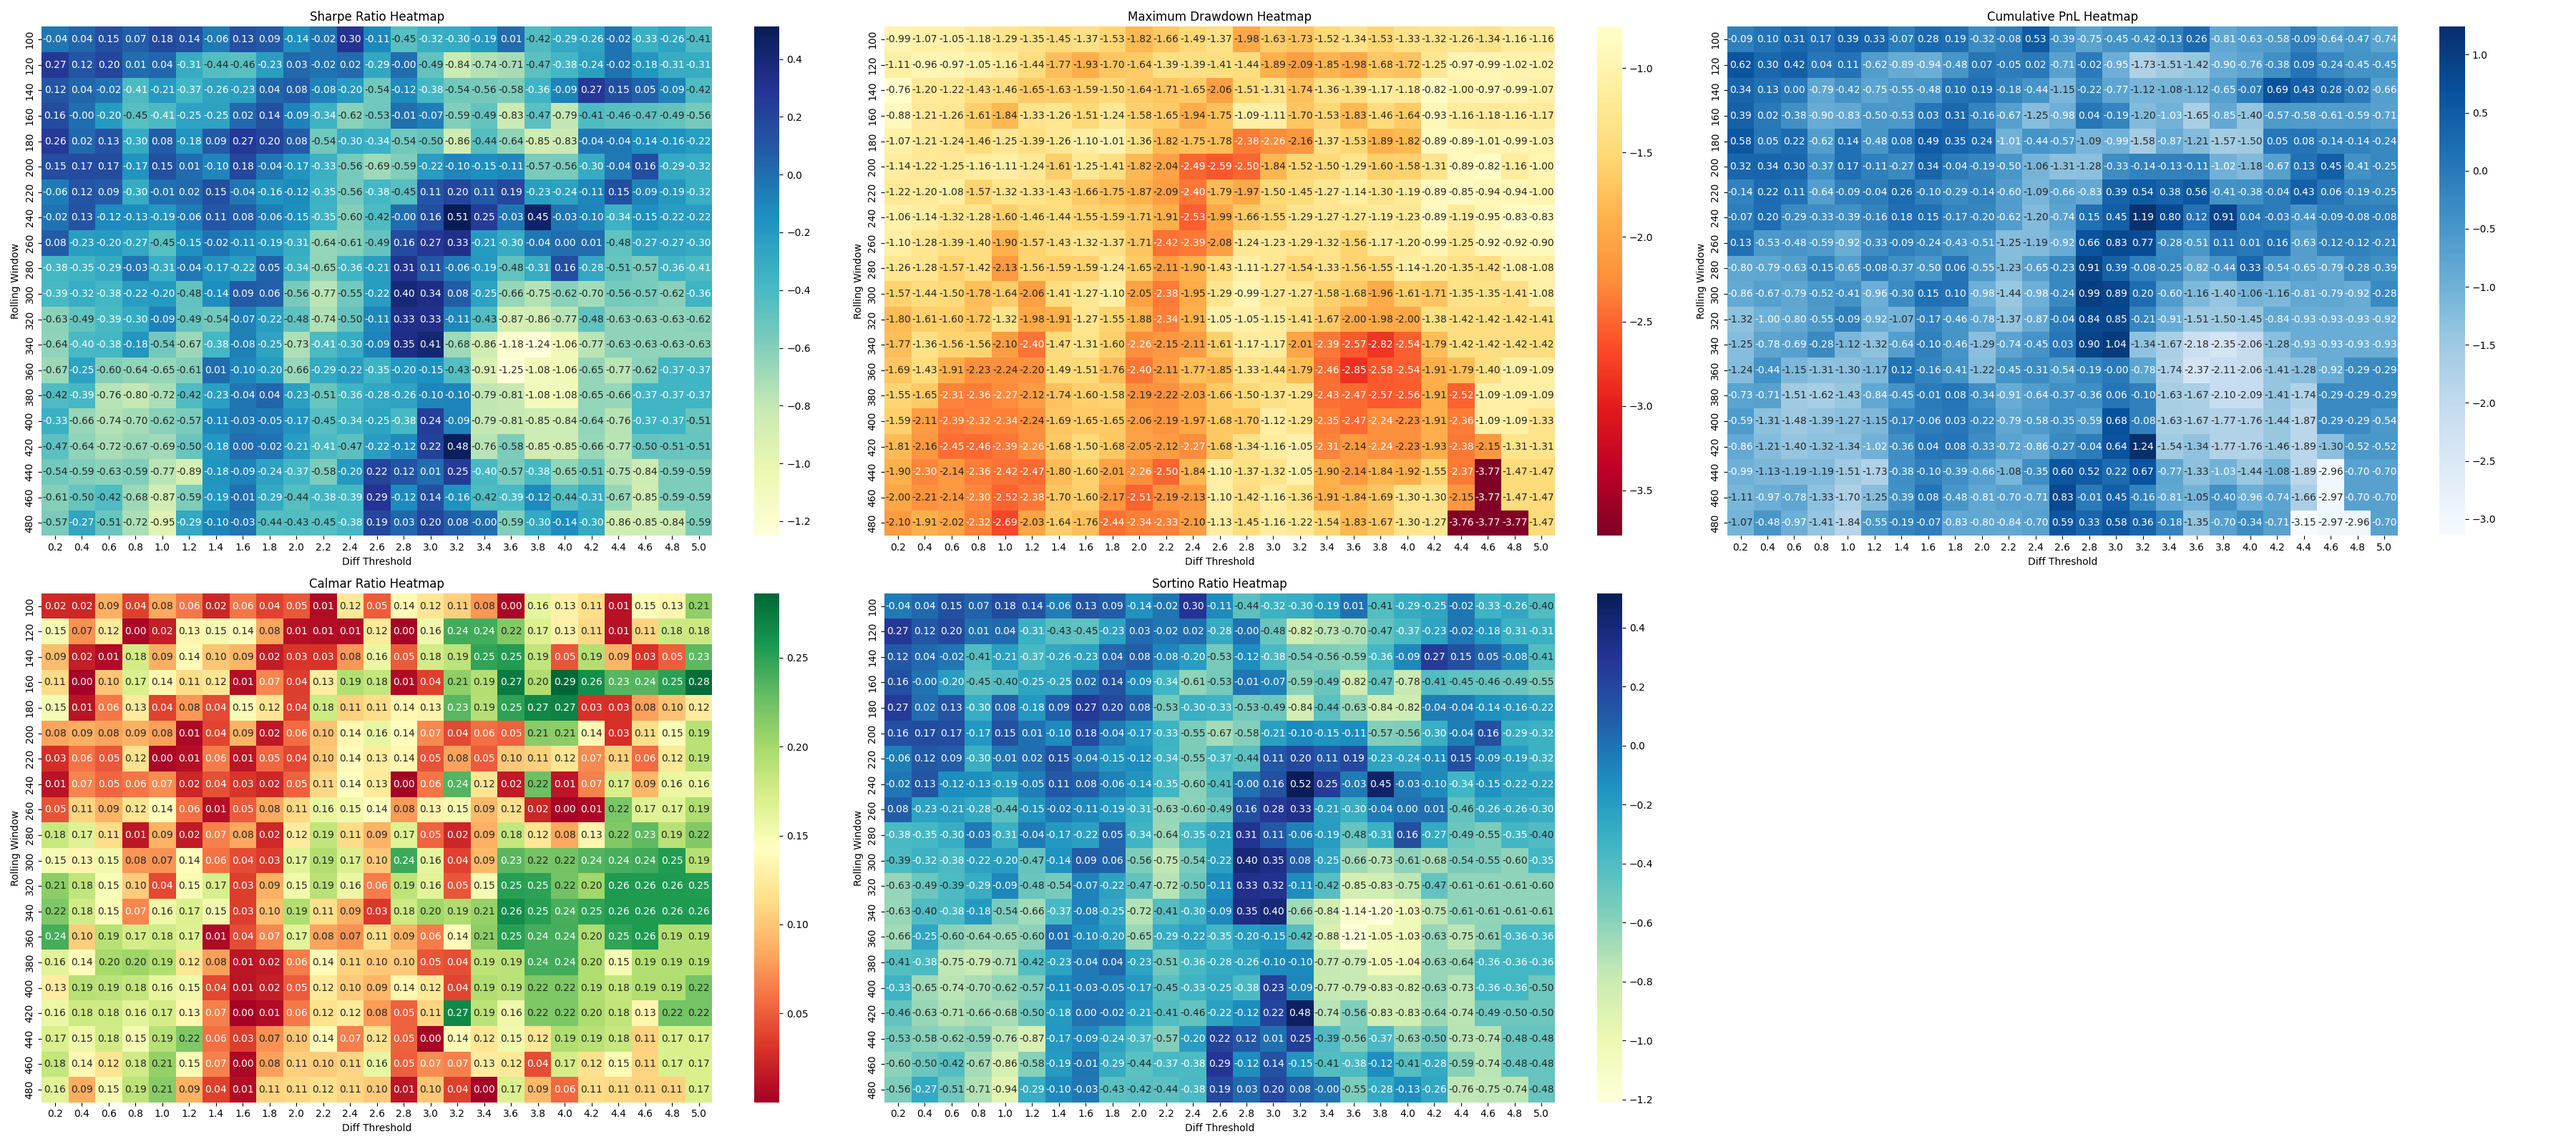
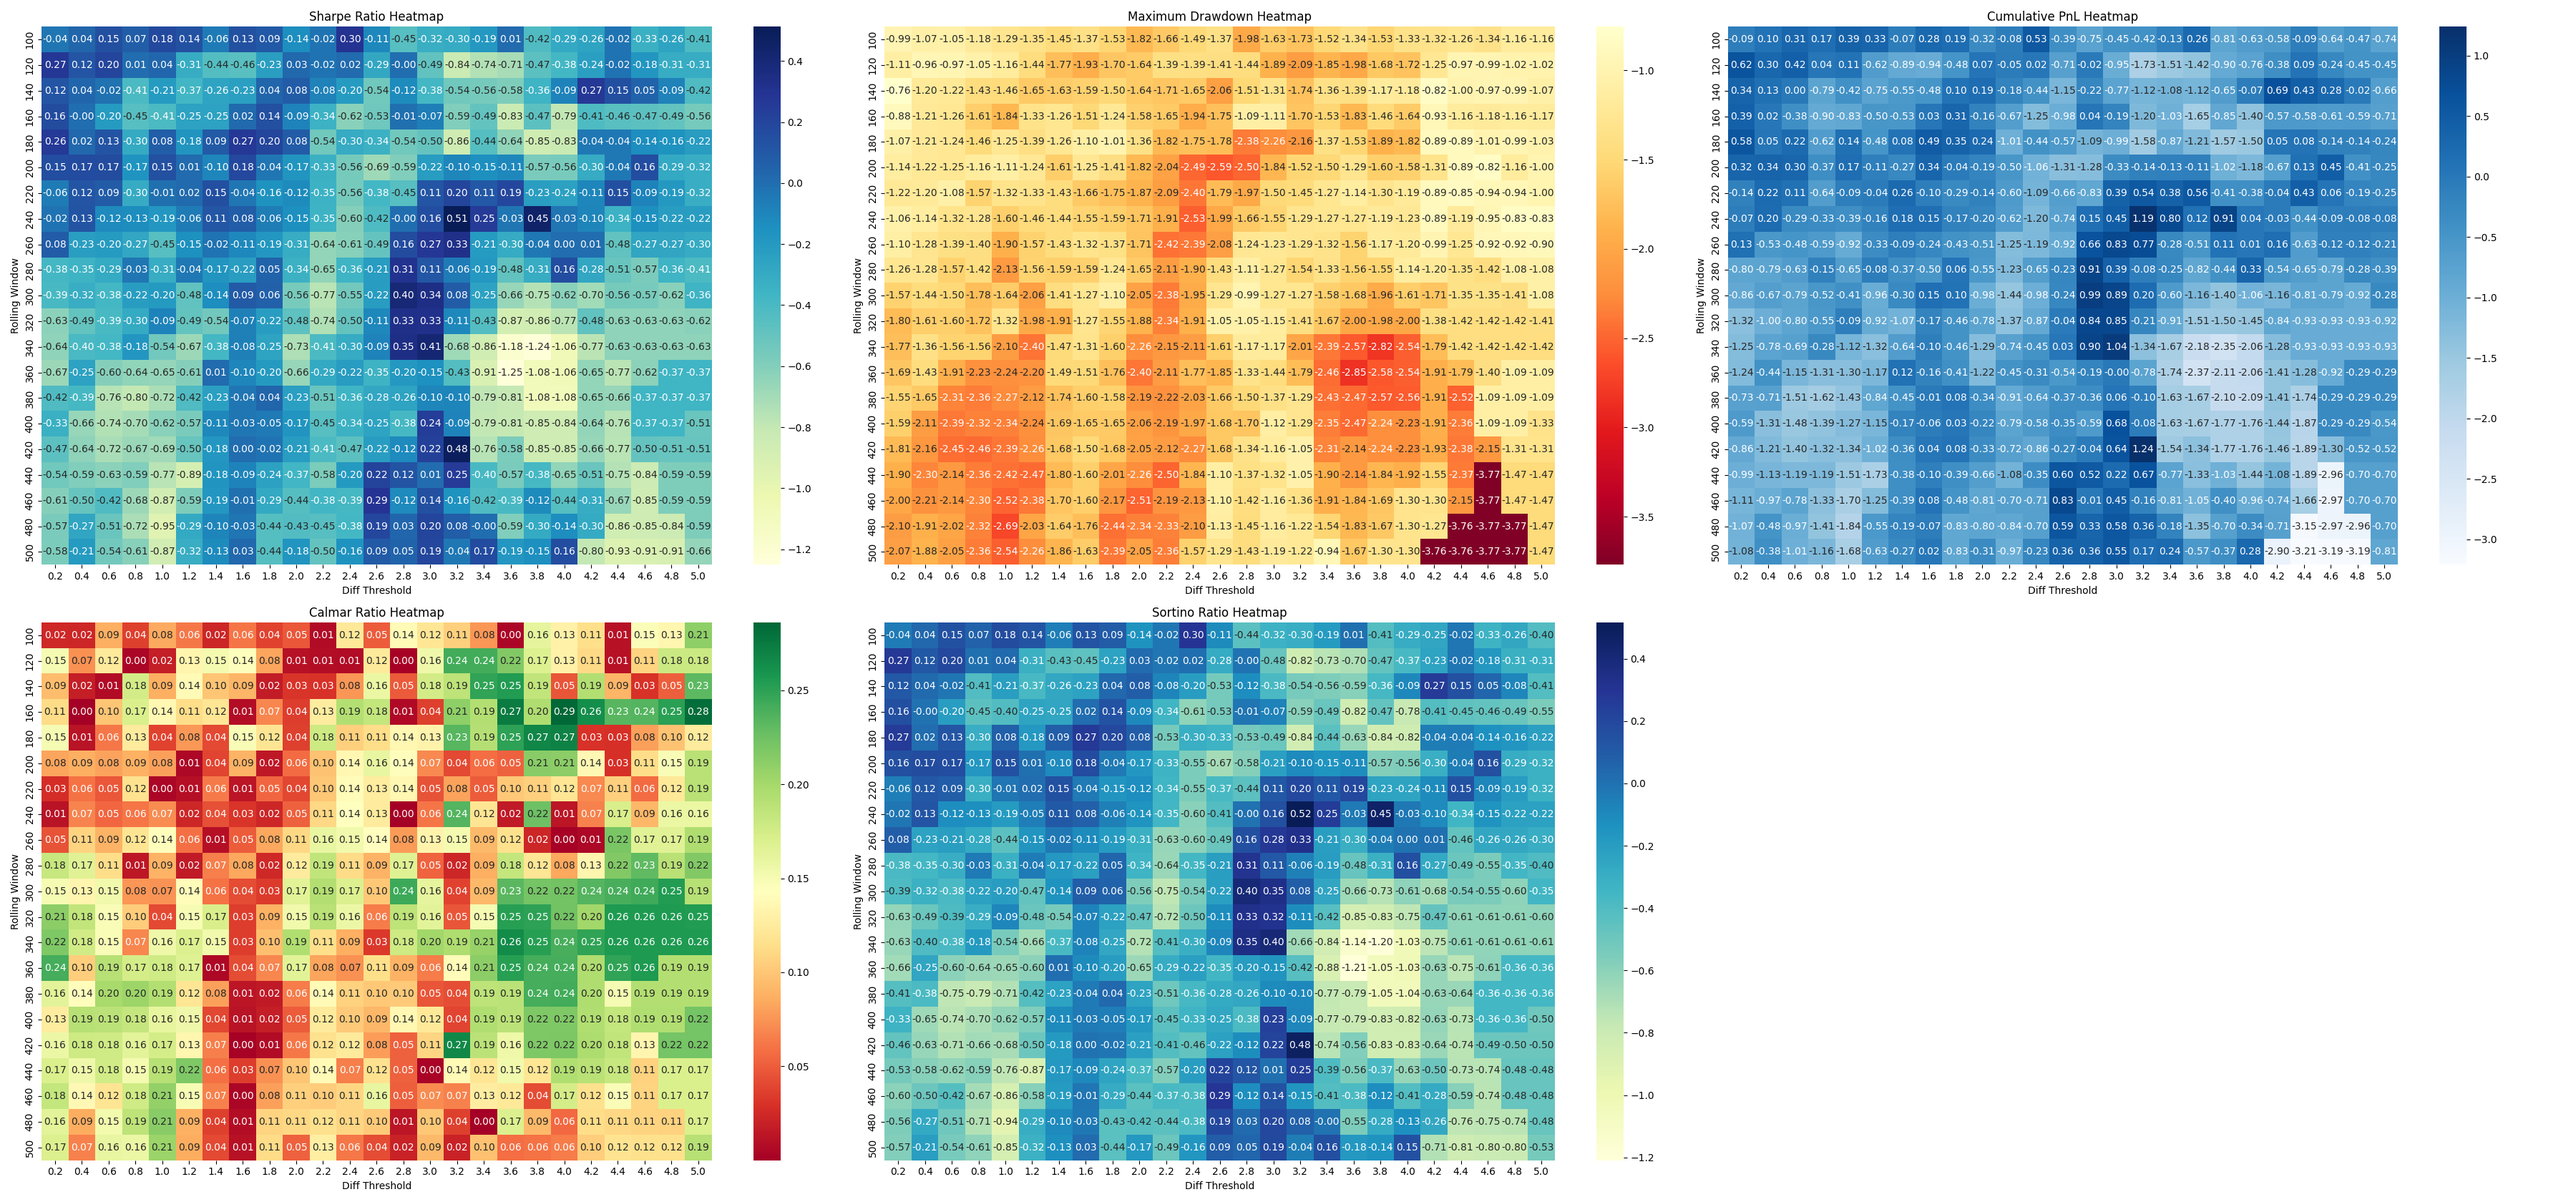
Save local changes

Changed region(s): [[0.0, 0.0, 0.28, 1.0], [0.3111, 0.0, 0.6222, 1.0], [0.6533, 0.0, 0.9333, 0.5]]

diff --git a/main.py b/main.py
@@ -32,7 +32,7 @@ if __name__ == "__main__":
     time_frames = ["1h"]
     models = [ThresholdModelEnum.ZSCORE]
     trading_strategies = [ThresholdTradingStrategyEnum.LONG_SHORT_OPPOSITE] 
-    rolling_windows = list(range(100, 500, 20))
+    rolling_windows = list(range(100, 520, 20))
     diff_thresholds = [round(num, 2) for num in np.arange(0.2, 5.2, 0.2).tolist()]
     trading_fee = 0.00055
     enable_alpha_analysis = False                        # To generate data analysis report (Take the first 'rolling_windows' as reference)
@@ -77,7 +77,7 @@ if __name__ == "__main__":
                     alpha_dfs = {}
                     for alpha_name, file_path in alpha_data_sources[coin][time_frame].items():
                         alpha_dfs[alpha_name] = pd.read_csv(file_path)
-                        alpha_dfs[alpha_name].rename(columns={'start_time': 'start_time'}, inplace=True)
+                        alpha_dfs[alpha_name].rename(columns={'Open Time': 'start_time'}, inplace=True)
 
                     # Read candle data
                     data_candle = pd.read_csv(candle_data_source[coin][time_frame])
